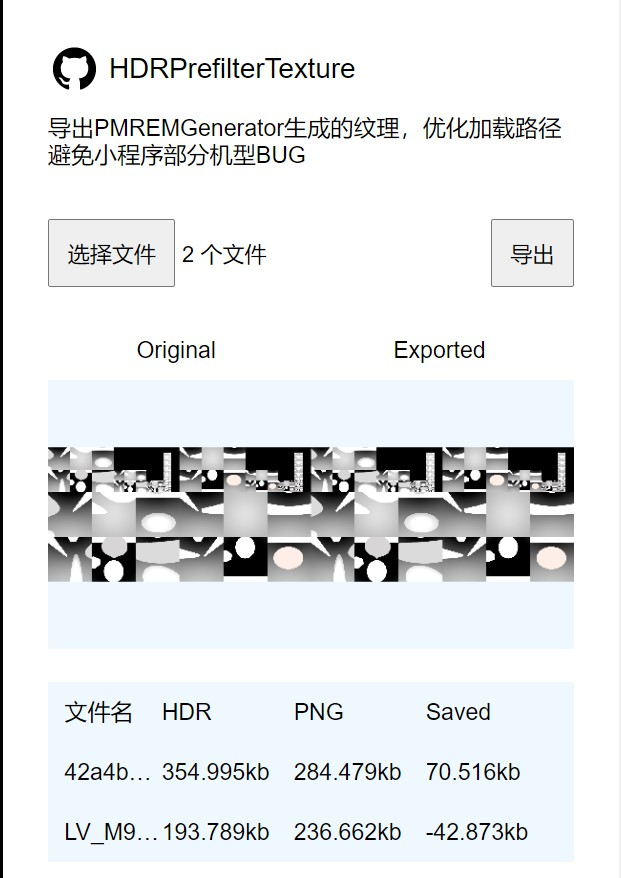
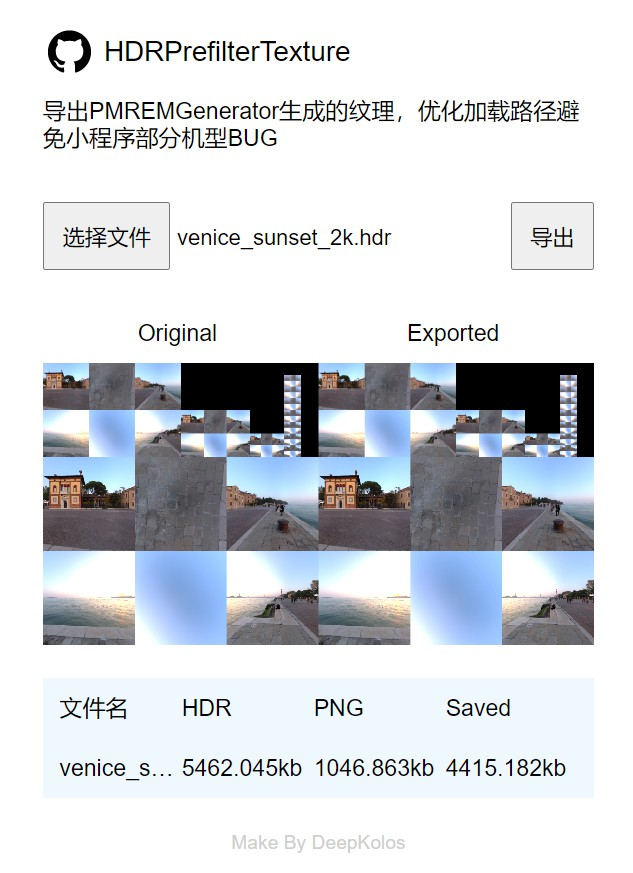
feat: set up git action gh-page

diff --git a/src/style.css b/src/style.css
@@ -10,7 +10,7 @@ body {
 }
 
 .page {
-  padding: 7vw;
+  padding: 20px 7vw;
   padding-bottom: 0;
   min-height: 100vh;
   box-sizing: border-box;

diff --git a/preact.config.js b/preact.config.js
@@ -1,0 +1,3 @@
+export default (config, env) => {
+  env.isProd && (config.output.publicPath = '/hdr-prefilter-texture/');
+};

diff --git a/README.md b/README.md
@@ -21,6 +21,8 @@ RGBELoader -> PMREMGenerator -> 设置scene.environment
 TextureLoader -> 设置texture属性 -> 设置scene.environment
 ```
 
+而`PMREMGenerator`产物导出后的PNG只有**1046.863kb**，体积减少了**4415.182kb**
+
 所以就有了这个`HDRPrefilterTexture`的项目，同时解决小程序下某些机型 bug，同时也优化加载时间，**但是**仅仅适用于 HDR 需要`PMREMGenerator`处理的场景。
 
 其实也是一个优化的思路，其他纹理需要经过特定处理才能直接使用的，均可以把产生物导出。
